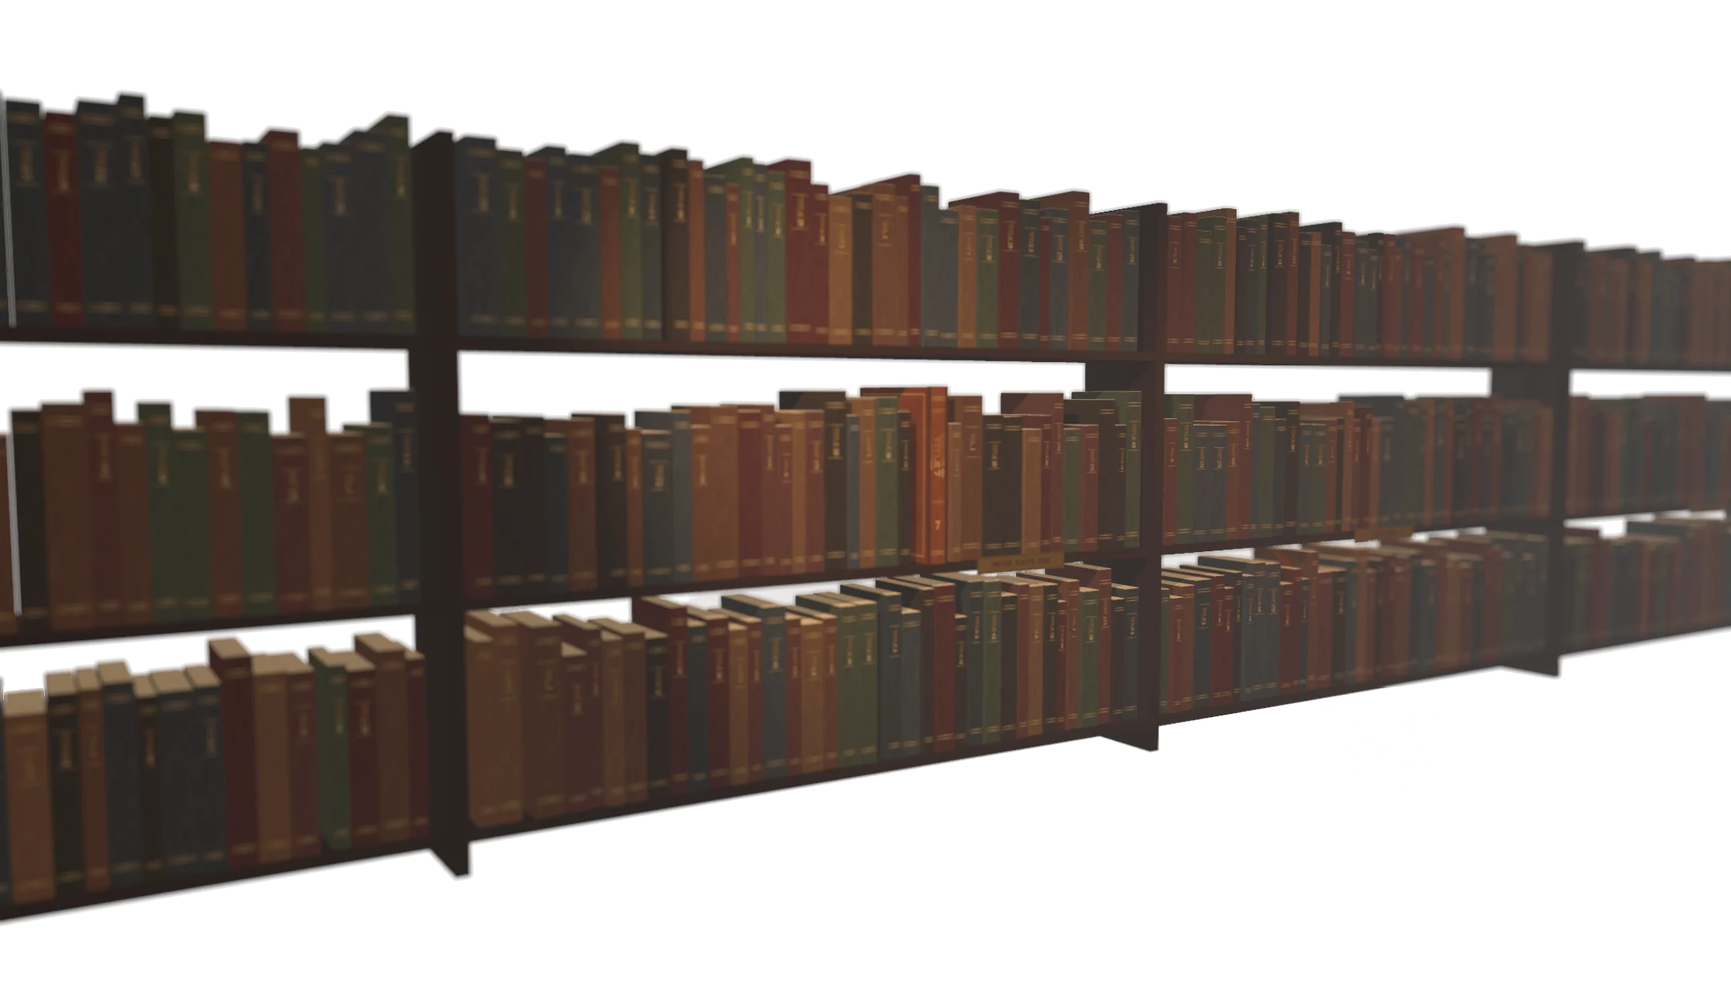
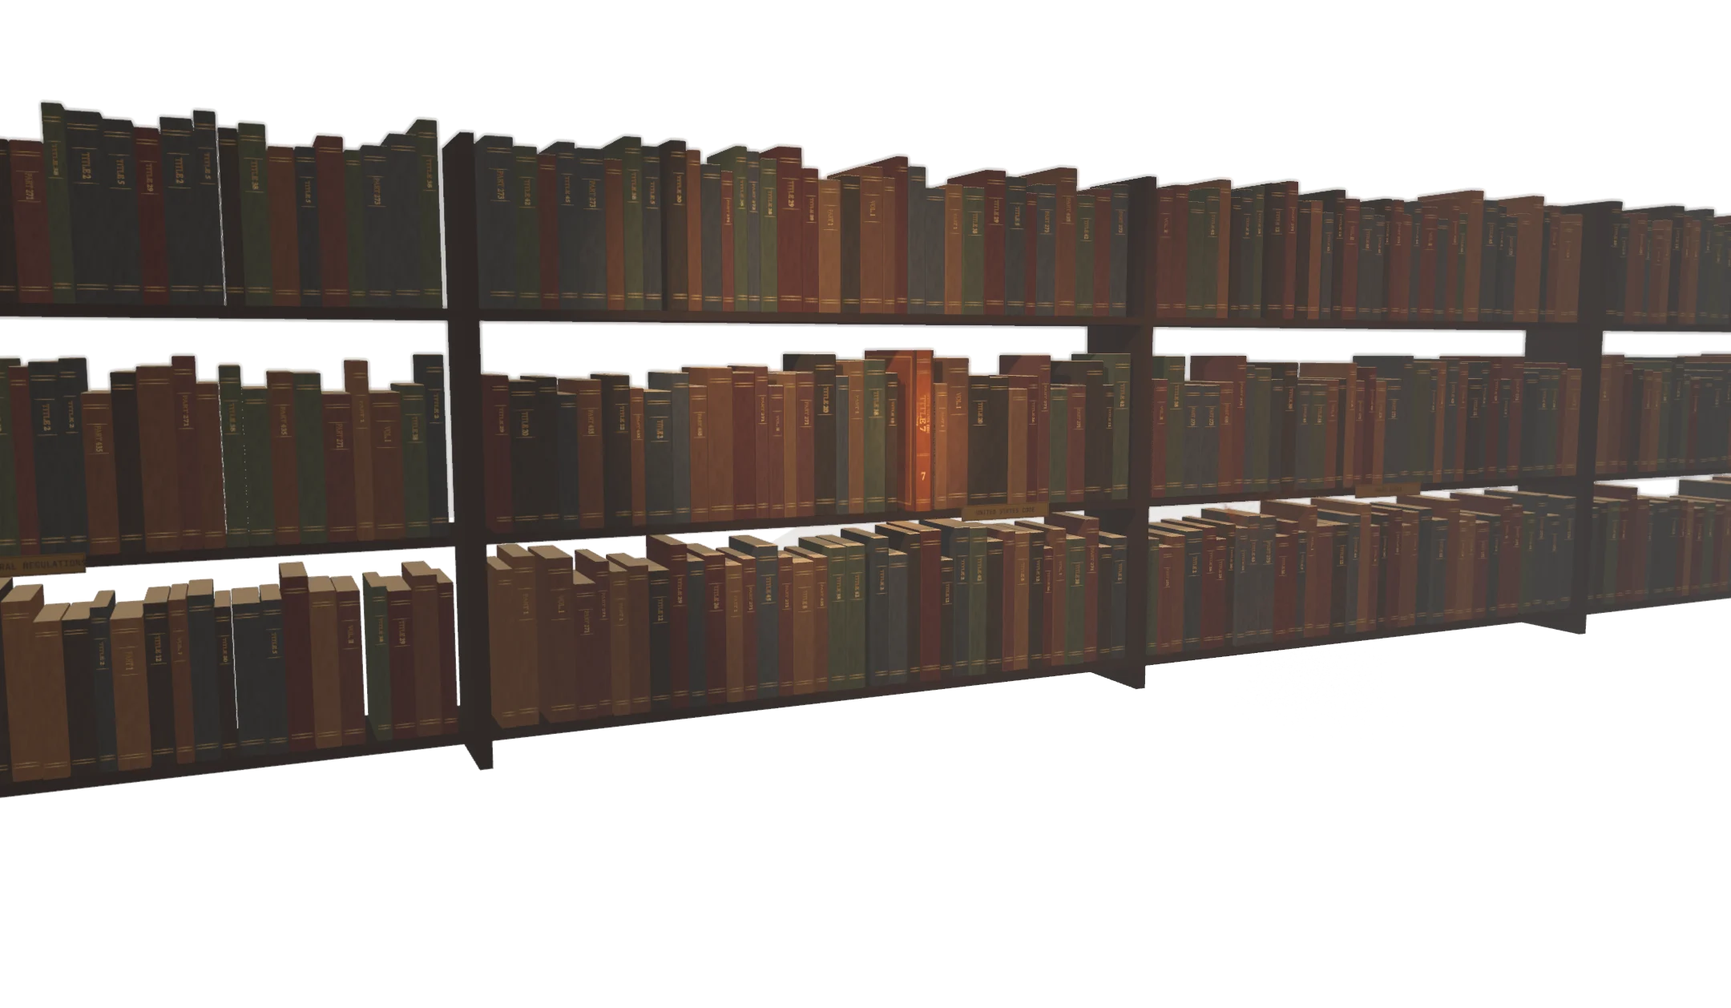
Journey: a crisp first frame and a smooth first visit
- First frame: sharp edge to edge (no depth blur at the start), the
  bookcase framed whole above the caption, Title 7 picked out by a soft
  amber light, a lighter wash behind the caption; new matching stand-in.
- First visit: shader error checks off in production (they blocked on
  the driver), texture uploads in ~8 ms slices, and the story builds
  well ahead (3.5 screens) and not mid-scroll unless it must. A fresh
  load scrolled at once into the story shows no long task.

Changed region(s): [[0.0, 0.093, 1.0, 0.93]]

diff --git a/src/components/landing/journey-lamplight/pacing.ts b/src/components/landing/journey-lamplight/pacing.ts
@@ -6,5 +6,5 @@ export const PACE = {
   total: 14.15,
   target: "190 then 260",
   P: [0, 0.02, 0.04, 0.06, 0.08, 0.1, 0.12, 0.14, 0.16, 0.18, 0.2, 0.22, 0.24, 0.26, 0.28, 0.3, 0.32, 0.34, 0.36, 0.38, 0.4, 0.42, 0.44, 0.46, 0.48, 0.5, 0.52, 0.54, 0.56, 0.58, 0.6, 0.62, 0.64, 0.66, 0.68, 0.7, 0.72, 0.74, 0.76, 0.78, 0.8, 0.82, 0.84, 0.86, 0.88, 0.9, 0.92, 0.94, 0.96, 0.98, 1, 1.02, 1.04, 1.06, 1.08, 1.1, 1.12, 1.14, 1.16, 1.18, 1.2, 1.22, 1.24, 1.26, 1.28, 1.3, 1.32, 1.34, 1.36, 1.38, 1.4, 1.42, 1.44, 1.46, 1.48, 1.5, 1.52, 1.54, 1.56, 1.58, 1.6, 1.62, 1.64, 1.66, 1.68, 1.7, 1.72, 1.74, 1.76, 1.78, 1.8, 1.82, 1.84, 1.86, 1.88, 1.9, 1.92, 1.94, 1.96, 1.98, 2, 2.02, 2.04, 2.06, 2.08, 2.1, 2.12, 2.14, 2.16, 2.18, 2.2, 2.22, 2.24, 2.26, 2.28, 2.3, 2.32, 2.34, 2.36, 2.38, 2.4, 2.42, 2.44, 2.46, 2.48, 2.5, 2.52, 2.54, 2.56, 2.58, 2.6, 2.62, 2.64, 2.66, 2.68, 2.7, 2.72, 2.74, 2.76, 2.78, 2.8, 2.82, 2.84, 2.86, 2.88, 2.9, 2.92, 2.94, 2.96, 2.98, 3, 3.02, 3.04, 3.06, 3.08, 3.1, 3.12, 3.14, 3.16, 3.18, 3.2, 3.22, 3.24, 3.26, 3.28, 3.3, 3.32, 3.34, 3.36, 3.38, 3.4, 3.42, 3.44, 3.46, 3.48, 3.5, 3.52, 3.54, 3.56, 3.58, 3.6, 3.62, 3.64, 3.66, 3.68, 3.7, 3.72, 3.74, 3.76, 3.78, 3.8, 3.82, 3.84, 3.86, 3.88, 3.9, 3.92, 3.94, 3.96, 3.98, 4, 4.02, 4.04, 4.06, 4.08, 4.1, 4.12, 4.14, 4.16, 4.18, 4.2, 4.22, 4.24, 4.26, 4.28, 4.3, 4.32, 4.34, 4.36, 4.38, 4.4, 4.42, 4.44, 4.46, 4.48, 4.5, 4.52, 4.54, 4.56, 4.58, 4.6, 4.62, 4.64, 4.66, 4.68, 4.7, 4.72, 4.74, 4.76, 4.78, 4.8, 4.82, 4.84, 4.86, 4.88, 4.9, 4.92, 4.94, 4.96, 4.98, 5, 5.02, 5.04, 5.06, 5.08, 5.1, 5.12, 5.14, 5.16, 5.18, 5.2, 5.22, 5.24, 5.26, 5.28, 5.3, 5.32, 5.34, 5.36, 5.38, 5.4, 5.42, 5.44, 5.46, 5.48, 5.5, 5.52, 5.54, 5.56, 5.58, 5.6, 5.62, 5.64, 5.66, 5.68, 5.7, 5.72, 5.74, 5.76, 5.78, 5.8, 5.82, 5.84, 5.86, 5.88, 5.9, 5.92, 5.94, 5.96, 5.98, 6, 6.02, 6.04, 6.06, 6.08, 6.1, 6.12, 6.14, 6.16, 6.18, 6.2, 6.22, 6.24, 6.26, 6.28, 6.3, 6.32, 6.34, 6.36, 6.38, 6.4, 6.42, 6.44, 6.46, 6.48, 6.5, 6.52, 6.54, 6.56, 6.58, 6.6, 6.62, 6.64, 6.66, 6.68, 6.7, 6.72, 6.74, 6.76, 6.78, 6.8, 6.82, 6.84, 6.86, 6.88, 6.9, 6.92, 6.94, 6.96, 6.98, 7, 7.02, 7.04, 7.06, 7.08, 7.1, 7.12, 7.14, 7.16, 7.18, 7.2, 7.22, 7.24, 7.26, 7.28, 7.3, 7.32, 7.34, 7.36, 7.38, 7.4, 7.42, 7.44, 7.46, 7.48, 7.5, 7.52, 7.54, 7.56, 7.58, 7.6, 7.62, 7.64, 7.66, 7.68, 7.7, 7.72, 7.74, 7.76, 7.78, 7.8, 7.82, 7.84, 7.86, 7.88, 7.9, 7.92, 7.94, 7.96, 7.98, 8, 8.02, 8.04, 8.06, 8.08, 8.1, 8.12, 8.14, 8.16, 8.18, 8.2, 8.22, 8.24, 8.26, 8.28, 8.3, 8.32, 8.34, 8.36, 8.38, 8.4, 8.42, 8.44, 8.46, 8.48, 8.5, 8.52, 8.54, 8.56, 8.58, 8.6, 8.62, 8.64, 8.66, 8.68, 8.7, 8.72, 8.74, 8.76, 8.78, 8.8, 8.82, 8.84, 8.86, 8.88, 8.9, 8.92, 8.94, 8.96, 8.98, 9, 9.02, 9.04, 9.06, 9.08, 9.1, 9.12, 9.14, 9.16, 9.18, 9.2, 9.22, 9.24, 9.26, 9.28, 9.3, 9.32, 9.34, 9.36, 9.38, 9.4, 9.42, 9.44, 9.46, 9.48, 9.5, 9.52, 9.54, 9.56, 9.58, 9.6, 9.62, 9.64, 9.66, 9.68, 9.7, 9.72, 9.74, 9.76, 9.78, 9.8, 9.82, 9.84, 9.86, 9.88, 9.9, 9.92, 9.94, 9.96, 9.98, 10, 10.02, 10.04, 10.06, 10.08, 10.1, 10.12, 10.14, 10.16, 10.18, 10.2, 10.22, 10.24, 10.26, 10.28, 10.3, 10.32, 10.34, 10.36, 10.38, 10.4, 10.42, 10.44, 10.46, 10.48, 10.5, 10.52, 10.54, 10.56, 10.58, 10.6, 10.62, 10.64, 10.66, 10.68, 10.7, 10.72, 10.74, 10.76, 10.78, 10.8, 10.82, 10.84, 10.86, 10.88, 10.9, 10.92, 10.94, 10.96, 10.98, 11, 11.02, 11.04, 11.06, 11.08, 11.1, 11.12, 11.14, 11.16, 11.18, 11.2, 11.22, 11.24, 11.26, 11.28, 11.3, 11.32, 11.34, 11.36, 11.38, 11.4, 11.42, 11.44, 11.46, 11.48, 11.5, 11.52, 11.54, 11.56, 11.58, 11.6, 11.62, 11.64, 11.66, 11.68, 11.7, 11.72, 11.74, 11.76, 11.78, 11.8, 11.82, 11.84, 11.86, 11.88, 11.9, 11.92, 11.94, 11.96, 11.98, 12, 12.02, 12.04, 12.06, 12.08, 12.1, 12.12, 12.14, 12.16, 12.18, 12.2, 12.22, 12.24, 12.26, 12.28, 12.3, 12.32, 12.34, 12.36, 12.38, 12.4, 12.42, 12.44, 12.46, 12.48, 12.5, 12.52, 12.54, 12.56, 12.58, 12.6, 12.62, 12.64, 12.66, 12.68, 12.7, 12.72, 12.74, 12.76, 12.78, 12.8, 12.82, 12.84, 12.86, 12.88, 12.9, 12.92, 12.94, 12.96, 12.98, 13, 13.02, 13.04, 13.06, 13.08, 13.1, 13.12, 13.14, 13.16, 13.18, 13.2, 13.22, 13.24, 13.26, 13.28, 13.3, 13.32, 13.34, 13.36, 13.38, 13.4, 13.42, 13.44, 13.46, 13.48, 13.5, 13.52, 13.54, 13.56, 13.58, 13.6, 13.62, 13.64, 13.66, 13.68, 13.7, 13.72, 13.74, 13.76, 13.78, 13.8, 13.82, 13.84, 13.86, 13.88, 13.9, 13.92, 13.94, 13.96, 13.98, 14, 14.02, 14.04, 14.06, 14.08, 14.1, 14.12, 14.14, 14.15],
-  S: [0, 0.032, 0.072, 0.1156, 0.1667, 0.2187, 0.2707, 0.3227, 0.3747, 0.4267, 0.4787, 0.5307, 0.5827, 0.6347, 0.6867, 0.7387, 0.7907, 0.8427, 0.8947, 0.9467, 0.9968, 1.0379, 1.0779, 1.1179, 1.1593, 1.2086, 1.2606, 1.3126, 1.3646, 1.4166, 1.4686, 1.5206, 1.5726, 1.6246, 1.6766, 1.7286, 1.7806, 1.8326, 1.8846, 1.9366, 1.9886, 2.0406, 2.0926, 2.1421, 2.1862, 2.2269, 2.2687, 2.3195, 2.3715, 2.4235, 2.4719, 2.5119, 2.5492, 2.5819, 2.6165, 2.6552, 2.6952, 2.7367, 2.7843, 2.8334, 2.8793, 2.9209, 2.9609, 3.0009, 3.0409, 3.0804, 3.1184, 3.1561, 3.1949, 3.2349, 3.2749, 3.3149, 3.3549, 3.3949, 3.4349, 3.4749, 3.5149, 3.5549, 3.5949, 3.6349, 3.6749, 3.7149, 3.7549, 3.7949, 3.8349, 3.8749, 3.9149, 3.9549, 3.9949, 4.0349, 4.0749, 4.1149, 4.1558, 4.1963, 4.2363, 4.2763, 4.3163, 4.3563, 4.3963, 4.4363, 4.4763, 4.5163, 4.5563, 4.5963, 4.6363, 4.6763, 4.7163, 4.7569, 4.8005, 4.8479, 4.8984, 4.9492, 4.9981, 5.0458, 5.0929, 5.1378, 5.1798, 5.2201, 5.2603, 5.3004, 5.3404, 5.3804, 5.4204, 5.4604, 5.5004, 5.5404, 5.5804, 5.6204, 5.6604, 5.7004, 5.7391, 5.7753, 5.8091, 5.8409, 5.8706, 5.8982, 5.9236, 5.9471, 5.9689, 5.9893, 6.0093, 6.0293, 6.0493, 6.0693, 6.0893, 6.1093, 6.1293, 6.1493, 6.1693, 6.1893, 6.2093, 6.2293, 6.2493, 6.2693, 6.2893, 6.3093, 6.3293, 6.3493, 6.3693, 6.3893, 6.4093, 6.4293, 6.4493, 6.4693, 6.4921, 6.5248, 6.5648, 6.6127, 6.6647, 6.7167, 6.7687, 6.8207, 6.8727, 6.9247, 6.9767, 7.0287, 7.0801, 7.1241, 7.1677, 7.2189, 7.2709, 7.3229, 7.3749, 7.4269, 7.4789, 7.5309, 7.5829, 7.6349, 7.6869, 7.7389, 7.7909, 7.8429, 7.8949, 7.9423, 7.9891, 8.0411, 8.0931, 8.1451, 8.1971, 8.2491, 8.3011, 8.3531, 8.4051, 8.4571, 8.5091, 8.5611, 8.6131, 8.6651, 8.7171, 8.7691, 8.8211, 8.8731, 8.9251, 8.9771, 9.0291, 9.0811, 9.1331, 9.1851, 9.2371, 9.2864, 9.327, 9.3559, 9.3759, 9.3959, 9.4159, 9.4359, 9.4559, 9.4759, 9.4959, 9.5159, 9.5359, 9.5559, 9.5759, 9.5959, 9.6159, 9.6359, 9.6559, 9.6759, 9.6959, 9.7159, 9.7359, 9.7559, 9.7759, 9.7959, 9.8159, 9.8359, 9.8559, 9.8759, 9.8959, 9.9159, 9.9359, 9.9559, 9.9759, 9.9959, 10.0159, 10.0359, 10.0559, 10.0759, 10.0959, 10.1159, 10.1359, 10.1559, 10.1759, 10.196, 10.2168, 10.2399, 10.2667, 10.2984, 10.3357, 10.3791, 10.4288, 10.4844, 10.5453, 10.6105, 10.6787, 10.7484, 10.8189, 10.9055, 10.9965, 11.0875, 11.1785, 11.2695, 11.3605, 11.4515, 11.5425, 11.6335, 11.7234, 11.7948, 11.8648, 11.9348, 12.0048, 12.0748, 12.1448, 12.2148, 12.2848, 12.3548, 12.4248, 12.4948, 12.5648, 12.6348, 12.7048, 12.7748, 12.8448, 12.9148, 12.984, 13.0508, 13.114, 13.1724, 13.2251, 13.2717, 13.312, 13.3464, 13.3755, 13.4003, 13.4221, 13.4423, 13.4623, 13.4823, 13.5023, 13.5223, 13.5423, 13.5623, 13.5823, 13.6023, 13.6223, 13.6425, 13.6631, 13.6833, 13.7033, 13.7233, 13.7433, 13.7633, 13.7833, 13.8033, 13.8233, 13.8433, 13.8633, 13.8833, 13.9033, 13.9233, 13.9433, 13.9633, 13.9833, 14.0033, 14.0233, 14.0433, 14.0633, 14.0833, 14.1033, 14.1233, 14.1433, 14.1633, 14.1833, 14.2033, 14.2233, 14.2433, 14.2633, 14.2833, 14.3033, 14.3233, 14.3433, 14.3633, 14.3833, 14.407, 14.433, 14.4572, 14.4775, 14.4975, 14.5175, 14.5375, 14.5575, 14.5775, 14.5975, 14.6175, 14.6375, 14.6575, 14.6775, 14.6975, 14.7175, 14.7375, 14.7575, 14.7775, 14.7975, 14.8175, 14.8375, 14.8575, 14.8775, 14.8975, 14.9175, 14.9375, 14.9575, 14.9775, 14.9975, 15.0175, 15.0383, 15.0615, 15.0883, 15.1199, 15.1572, 15.2006, 15.2503, 15.3059, 15.3668, 15.432, 15.5002, 15.57, 15.64, 15.71, 15.78, 15.85, 15.92, 15.99, 16.06, 16.1352, 16.2262, 16.303, 16.3914, 16.4733, 16.5433, 16.6133, 16.6833, 16.7533, 16.8233, 16.8933, 16.9633, 17.0333, 17.1033, 17.1733, 17.2433, 17.3133, 17.3833, 17.4533, 17.5233, 17.5933, 17.6624, 17.7293, 17.7925, 17.8508, 17.9036, 17.9501, 17.9904, 18.0248, 18.0539, 18.0787, 18.1005, 18.1208, 18.1408, 18.1608, 18.1808, 18.2008, 18.2208, 18.2408, 18.2608, 18.2808, 18.3008, 18.3208, 18.3408, 18.3608, 18.3808, 18.4008, 18.4208, 18.4408, 18.4608, 18.4808, 18.5016, 18.5248, 18.5516, 18.5832, 18.6205, 18.6639, 18.7136, 18.7692, 18.8301, 18.8953, 18.9635, 19.0333, 19.1033, 19.1733, 19.2433, 19.3133, 19.3833, 19.4533, 19.5302, 19.6212, 19.6969, 19.7669, 19.8369, 19.9069, 19.9861, 20.0771, 20.168, 20.248, 20.3189, 20.3889, 20.4589, 20.5289, 20.5992, 20.6696, 20.7423, 20.8166, 20.8909, 20.9652, 21.0383, 21.1136, 21.1854, 21.2548, 21.3229, 21.3878, 21.4497, 21.5077, 21.5607, 21.6126, 21.6642, 21.7156, 21.7667, 21.817, 21.8664, 21.915, 21.9632, 22.0111, 22.0581, 22.1035, 22.1472, 22.1891, 22.2293, 22.2693, 22.3093, 22.3493, 22.3893, 22.4285, 22.4647, 22.4987, 22.5315, 22.5636, 22.5953, 22.6268, 22.6584, 22.6907, 22.728, 22.7714, 22.8211, 22.8767, 22.9376, 23.0028, 23.071, 23.1407, 23.2107, 23.2807, 23.3507, 23.4216, 23.5094, 23.6004, 23.6914, 23.7697, 23.8397, 23.9097, 23.9972, 24.0882, 24.1756, 24.2602, 24.3445, 24.4303, 24.5188, 24.6098, 24.7008, 24.7918, 24.8828, 24.9738, 25.0648, 25.1558, 25.2468, 25.3378, 25.4288, 25.5198, 25.6097, 25.6966, 25.7787, 25.8546, 25.9231, 25.9837, 26.0369, 26.0889, 26.1409, 26.1925, 26.2418, 26.289, 26.3348, 26.3788, 26.4206, 26.4608, 26.5008, 26.5408, 26.5795, 26.6122, 26.6387, 26.66, 26.68, 26.7, 26.72, 26.74, 26.76, 26.78, 26.8, 26.82, 26.8409, 26.864, 26.8908, 26.9224, 26.9597, 27.0032, 27.0528, 27.1085, 27.1694, 27.2345, 27.3027, 27.3725, 27.4425, 27.5125, 27.5825, 27.6618, 27.7528, 27.8438, 27.9348, 28.0258, 28.1168, 28.2078, 28.2988, 28.3891, 28.4634, 28.5334, 28.6034, 28.6734, 28.7434, 28.8134, 28.8834, 28.9534, 29.0234, 29.0934, 29.1634, 29.2334, 29.3034, 29.3734, 29.4434, 29.5134, 29.5825, 29.6494, 29.7126, 29.771, 29.8237, 29.8702, 29.9106, 29.9449, 29.974, 29.9988, 30.0206, 30.0409, 30.0609, 30.0809, 30.1009, 30.1209, 30.1409, 30.1609, 30.1809, 30.2009, 30.2209, 30.2409, 30.2609, 30.2809, 30.3009, 30.3209, 30.3409, 30.3609, 30.3809, 30.4009, 30.4209, 30.4409, 30.4609, 30.4809, 30.5009, 30.5209, 30.5409, 30.5609, 30.5809, 30.6009, 30.6209, 30.6409, 30.6609, 30.6809, 30.7009, 30.7209, 30.7409, 30.7609, 30.7809, 30.8009, 30.8209, 30.8409, 30.8609, 30.8809, 30.9009, 30.9209, 30.9409, 30.9609, 30.9809, 31.0009, 31.0209, 31.0409, 31.0609, 31.0809, 31.0909],
+  S: [0, 0.0318, 0.0718, 0.1179, 0.1697, 0.2217, 0.2737, 0.3257, 0.3777, 0.4297, 0.4817, 0.5337, 0.5857, 0.6377, 0.6897, 0.7417, 0.7937, 0.8457, 0.8977, 0.9497, 1.0017, 1.0464, 1.0864, 1.1298, 1.181, 1.233, 1.285, 1.337, 1.389, 1.441, 1.493, 1.545, 1.597, 1.649, 1.701, 1.753, 1.805, 1.857, 1.909, 1.961, 2.013, 2.065, 2.117, 2.1653, 2.2072, 2.2472, 2.2885, 2.339, 2.391, 2.443, 2.4914, 2.5314, 2.5673, 2.5985, 2.6319, 2.6702, 2.7102, 2.751, 2.7972, 2.8463, 2.8938, 2.9374, 2.9777, 3.0177, 3.0577, 3.0974, 3.1351, 3.1723, 3.2108, 3.2508, 3.2908, 3.3308, 3.3708, 3.4108, 3.4508, 3.4908, 3.5308, 3.5708, 3.6108, 3.6508, 3.6908, 3.7308, 3.7708, 3.8108, 3.8508, 3.8908, 3.9308, 3.9708, 4.0108, 4.0508, 4.0908, 4.1308, 4.1719, 4.2141, 4.2542, 4.2942, 4.3342, 4.3742, 4.4142, 4.4542, 4.4942, 4.5342, 4.5742, 4.6142, 4.6546, 4.6957, 4.7372, 4.7793, 4.8226, 4.8683, 4.9164, 4.9653, 5.0134, 5.0612, 5.1086, 5.1543, 5.1975, 5.239, 5.2797, 5.3198, 5.3598, 5.3998, 5.4398, 5.4798, 5.5198, 5.5598, 5.5998, 5.6398, 5.6798, 5.7198, 5.7583, 5.7942, 5.8279, 5.8593, 5.8887, 5.9159, 5.941, 5.9643, 5.9861, 6.0066, 6.0266, 6.0466, 6.0666, 6.0866, 6.1066, 6.1266, 6.1466, 6.1666, 6.1866, 6.2066, 6.2266, 6.2466, 6.2666, 6.2866, 6.3066, 6.3266, 6.3466, 6.3666, 6.3866, 6.4066, 6.4266, 6.4466, 6.4666, 6.4866, 6.5101, 6.5432, 6.5833, 6.6312, 6.6832, 6.7352, 6.7872, 6.8392, 6.8912, 6.9432, 6.9952, 7.0472, 7.0986, 7.1431, 7.1867, 7.2375, 7.2895, 7.3415, 7.3935, 7.4455, 7.4975, 7.5495, 7.6015, 7.6535, 7.7055, 7.7575, 7.8095, 7.8615, 7.9135, 7.96, 8.0069, 8.0589, 8.1109, 8.1629, 8.2149, 8.2669, 8.3189, 8.3709, 8.4229, 8.4749, 8.5269, 8.5789, 8.6309, 8.6829, 8.7349, 8.7869, 8.8389, 8.8909, 8.9429, 8.9949, 9.0469, 9.0989, 9.1509, 9.2029, 9.2549, 9.3048, 9.3448, 9.3735, 9.3935, 9.4135, 9.4335, 9.4535, 9.4735, 9.4935, 9.5135, 9.5335, 9.5535, 9.5735, 9.5935, 9.6135, 9.6335, 9.6535, 9.6735, 9.6935, 9.7135, 9.7335, 9.7535, 9.7735, 9.7935, 9.8135, 9.8335, 9.8535, 9.8735, 9.8935, 9.9135, 9.9335, 9.9535, 9.9735, 9.9935, 10.0135, 10.0335, 10.0535, 10.0735, 10.0935, 10.1135, 10.1335, 10.1535, 10.1735, 10.1935, 10.2136, 10.2344, 10.2575, 10.2843, 10.316, 10.3533, 10.3967, 10.4464, 10.502, 10.5629, 10.6281, 10.6963, 10.766, 10.836, 10.9223, 11.0133, 11.1043, 11.1953, 11.2863, 11.3773, 11.4683, 11.5593, 11.6503, 11.7413, 11.8118, 11.8818, 11.9518, 12.0218, 12.0918, 12.1618, 12.2318, 12.3018, 12.3718, 12.4418, 12.5118, 12.5818, 12.6518, 12.7218, 12.7918, 12.8618, 12.9318, 13.001, 13.0678, 13.131, 13.1894, 13.2421, 13.2887, 13.329, 13.3634, 13.3925, 13.4173, 13.4391, 13.4593, 13.4793, 13.4993, 13.5193, 13.5393, 13.5593, 13.5793, 13.5993, 13.6193, 13.6393, 13.6596, 13.6803, 13.7004, 13.7204, 13.7404, 13.7604, 13.7804, 13.8004, 13.8204, 13.8404, 13.8604, 13.8804, 13.9004, 13.9204, 13.9404, 13.9604, 13.9804, 14.0004, 14.0204, 14.0404, 14.0604, 14.0804, 14.1004, 14.1204, 14.1404, 14.1604, 14.1804, 14.2004, 14.2204, 14.2404, 14.2604, 14.2804, 14.3004, 14.3204, 14.3404, 14.3604, 14.3804, 14.4004, 14.4241, 14.4501, 14.4743, 14.4946, 14.5146, 14.5346, 14.5546, 14.5746, 14.5946, 14.6146, 14.6346, 14.6546, 14.6746, 14.6946, 14.7146, 14.7346, 14.7546, 14.7746, 14.7946, 14.8146, 14.8346, 14.8546, 14.8746, 14.8946, 14.9146, 14.9346, 14.9546, 14.9746, 14.9946, 15.0146, 15.0347, 15.0555, 15.0786, 15.1055, 15.1371, 15.1744, 15.2178, 15.2675, 15.3231, 15.384, 15.4492, 15.5174, 15.5871, 15.6571, 15.7271, 15.7971, 15.8671, 15.9371, 16.0071, 16.0771, 16.1541, 16.2451, 16.3195, 16.4008, 16.4913, 16.5641, 16.6341, 16.7041, 16.7741, 16.8441, 16.9141, 16.9841, 17.0541, 17.1241, 17.1941, 17.2641, 17.3341, 17.4041, 17.4741, 17.5441, 17.6141, 17.6833, 17.7502, 17.8133, 17.8717, 17.9244, 17.971, 18.0113, 18.0457, 18.0748, 18.0996, 18.1214, 18.1416, 18.1616, 18.1816, 18.2016, 18.2216, 18.2416, 18.2616, 18.2816, 18.3016, 18.3216, 18.3416, 18.3616, 18.3816, 18.4016, 18.4216, 18.4416, 18.4616, 18.4816, 18.5017, 18.5225, 18.5456, 18.5725, 18.6041, 18.6414, 18.6848, 18.7345, 18.7901, 18.851, 18.9162, 18.9844, 19.0541, 19.1241, 19.1941, 19.2641, 19.3341, 19.4041, 19.4741, 19.5503, 19.6413, 19.7181, 19.7881, 19.8581, 19.9281, 20.0074, 20.0984, 20.1892, 20.2704, 20.344, 20.4145, 20.4845, 20.5545, 20.6245, 20.6946, 20.7666, 20.8399, 20.9142, 20.9887, 21.0616, 21.1356, 21.2074, 21.2767, 21.3437, 21.4081, 21.47, 21.5284, 21.5816, 21.6336, 21.6855, 21.7372, 21.7882, 21.8385, 21.888, 21.9364, 21.9841, 22.0316, 22.0788, 22.1245, 22.1686, 22.2112, 22.252, 22.292, 22.332, 22.372, 22.412, 22.4514, 22.4877, 22.5219, 22.5546, 22.5868, 22.6186, 22.6503, 22.682, 22.7144, 22.7516, 22.7951, 22.8448, 22.9004, 22.9613, 23.0265, 23.0947, 23.1644, 23.2344, 23.3044, 23.3744, 23.4462, 23.5346, 23.6256, 23.7166, 23.7948, 23.8648, 23.9348, 24.0225, 24.1135, 24.2013, 24.2842, 24.3686, 24.4558, 24.5427, 24.6323, 24.7233, 24.8143, 24.9053, 24.9963, 25.0873, 25.1783, 25.2693, 25.3603, 25.4513, 25.5423, 25.6323, 25.7191, 25.8013, 25.8772, 25.9457, 26.0063, 26.0595, 26.1115, 26.1635, 26.2149, 26.2644, 26.3117, 26.3567, 26.3997, 26.4414, 26.4816, 26.5216, 26.5616, 26.6003, 26.633, 26.6594, 26.6808, 26.7008, 26.7208, 26.7408, 26.7608, 26.7808, 26.8008, 26.8208, 26.8408, 26.8616, 26.8848, 26.9116, 26.9432, 26.9805, 27.0239, 27.0736, 27.1292, 27.1901, 27.2553, 27.3235, 27.3933, 27.4633, 27.5333, 27.6033, 27.6825, 27.7735, 27.8645, 27.9555, 28.0465, 28.1375, 28.2285, 28.3195, 28.4102, 28.4866, 28.5566, 28.6266, 28.6966, 28.7666, 28.8366, 28.9066, 28.9766, 29.0466, 29.1166, 29.1866, 29.2566, 29.3266, 29.3966, 29.4666, 29.5366, 29.6057, 29.6726, 29.7358, 29.7941, 29.8469, 29.8934, 29.9337, 29.9681, 29.9972, 30.022, 30.0438, 30.0641, 30.0841, 30.1041, 30.1241, 30.1441, 30.1641, 30.1841, 30.2041, 30.2241, 30.2441, 30.2641, 30.2841, 30.3041, 30.3241, 30.3441, 30.3641, 30.3841, 30.4041, 30.4241, 30.4441, 30.4641, 30.4841, 30.5041, 30.5241, 30.5441, 30.5641, 30.5841, 30.6041, 30.6241, 30.6441, 30.6641, 30.6841, 30.7041, 30.7241, 30.7441, 30.7641, 30.7841, 30.8041, 30.8241, 30.8441, 30.8641, 30.8841, 30.9041, 30.9241, 30.9441, 30.9641, 30.9841, 31.0041, 31.0241, 31.0441, 31.0641, 31.0841, 31.1041, 31.1141],
 };

diff --git a/src/components/landing/journey-lamplight/journey-lamplight.tsx b/src/components/landing/journey-lamplight/journey-lamplight.tsx
@@ -222,17 +222,29 @@ function ScrollJourney() {
     // (or at once if the reader is already near), so the first approach to
     // the story does not pay for building it
     let started = false;
+    // building the scenes is one long task (~100 ms): run it while the
+    // reader is not scrolling, unless the story is already close
+    let lastScroll = 0;
+    const onScroll = () => (lastScroll = performance.now());
+    window.addEventListener("scroll", onScroll, { passive: true });
+    const near = () => track.getBoundingClientRect().top < window.innerHeight * 3.5;
     const start = () => {
       if (started || director || dead) return;
+      if (!near() && performance.now() - lastScroll < 220) {
+        window.setTimeout(start, 120);
+        return;
+      }
       started = true;
       io.disconnect();
+      window.removeEventListener("scroll", onScroll);
       load();
     };
     const io = new IntersectionObserver(
       (entries) => {
         if (entries.some((en) => en.isIntersecting)) start();
       },
-      { rootMargin: "150% 0px" },
+      // start well ahead of the story, never at its entrance
+      { rootMargin: "350% 0px" },
     );
     const idle = (cb: () => void) => {
       if (typeof window.requestIdleCallback === "function") window.requestIdleCallback(cb, { timeout: 4000 });
@@ -295,6 +307,7 @@ function ScrollJourney() {
     return () => {
       dead = true;
       window.clearTimeout(early);
+      window.removeEventListener("scroll", onScroll);
       io.disconnect();
       window.removeEventListener("resize", onResize);
       st.kill();

diff --git a/src/components/landing/style-frames/lamplight0.ts b/src/components/landing/style-frames/lamplight0.ts
@@ -353,16 +353,26 @@ export function lamplightShelf(ctx: BeatCtx): BeatSpec {
   lamp.shadow.blurSamples = 16;
   lamp.shadow.bias = -0.0004;
   scene.add(lamp, lamp.target);
+  // on paper, a soft amber light picks out Title 7 among the volumes
+  if (THEME.paper) {
+    const pick = new THREE.SpotLight("#ffb05a", 26, 6, 0.16, 0.85, 2);
+    pick.position.set(heroAt.x - 0.3, heroAt.y + 1.4, heroAt.z + 2.2);
+    pick.target.position.copy(heroAt);
+    scene.add(pick, pick.target);
+  }
   const fill = new THREE.PointLight("#ff9a50", 3.5, 12, 2);
   fill.position.set(3.5, 2.2, 2.2);
   scene.add(fill);
   scene.add(new THREE.AmbientLight("#ffe2c0", THEME.paper ? 0.9 : 0.03));
   // the motion: the camera drifts in from across the room while the
   // volume comes out of its slot; dust drifts in the lamp's beam
-  const camFrom = new THREE.Vector3(-3.9, 1.95, 6.4);
+  // far enough back that the whole bookcase sits above the caption
+  const camFrom = new THREE.Vector3(-3.4, 2.0, 7.6);
   const camTo = camera.position.clone();
-  const aimFrom = new THREE.Vector3(0.2, 1.35, -0.2);
-  const aimTo = new THREE.Vector3(0.75, 1.2, -0.1);
+  // the camera looks a little low, so the shelves sit high in the frame
+  // and the caption has clear page beneath them
+  const aimFrom = new THREE.Vector3(0.2, 1.05, -0.2);
+  const aimTo = new THREE.Vector3(0.75, 0.9, -0.1);
   const update = (t: number) => {
     const c = ease(t);
     camera.position.lerpVectors(camFrom, camTo, c);

diff --git a/src/components/landing/style-frames/lamplight01.ts b/src/components/landing/style-frames/lamplight01.ts
@@ -462,7 +462,9 @@ export function lamplightShelfToBook(ctx: BeatCtx): BeatSpec {
     // focus a little in front of the book's middle, so its near edge and
     // the table under it are sharp
     if (u < R0) look.dof!.focus = camera.position.distanceTo(bookNow) - 0.5 * ease(seg(u, 0.7, 1.0));
-    look.dof!.aperture = u < 0.45 ? 0.0008 : u < R0 ? lerp(0.0008, 0.0003, seg(u, 0.6, 1.0)) : lerp(0.0003, 0.0012, seg(u, 2.2, 3.0));
+    // the first frame is sharp from edge to edge; a little depth comes in
+    // as the volume leaves the shelf
+    look.dof!.aperture = u < 0.45 ? lerp(THEME.paper ? 0.00008 : 0.0008, 0.0008, seg(u, 0.2, 0.45)) : u < R0 ? lerp(0.0008, 0.0003, seg(u, 0.6, 1.0)) : lerp(0.0003, 0.0012, seg(u, 2.2, 3.0));
 
     // ── the light: the library's lamp falls away as the table's comes up
     libLamp.intensity = libLampOn * lerp(1, 0.28, seg(u, 0.5, 1.1));

diff --git a/src/components/landing/style-frames/kit.ts b/src/components/landing/style-frames/kit.ts
@@ -806,6 +806,10 @@ export function makeRenderer(canvas?: HTMLCanvasElement) {
   // transparent in the last pass), so the page shows behind the scenes
   const renderer = new THREE.WebGLRenderer({ antialias: false, alpha: true, canvas, preserveDrawingBuffer: true, powerPreference: "high-performance" });
   renderer.outputColorSpace = THREE.SRGBColorSpace;
+  // in production, never wait on a shader to read back its error log: that
+  // check blocks until the driver finishes compiling, which stalls a frame
+  // (shaders then compile in parallel, out of the way)
+  renderer.debug.checkShaderErrors = process.env.NODE_ENV !== "production";
   renderer.shadowMap.enabled = true;
   renderer.shadowMap.type = THREE.VSMShadowMap;
   return renderer;

diff --git a/src/components/landing/journey-lamplight/director.ts b/src/components/landing/journey-lamplight/director.ts
@@ -199,7 +199,15 @@ export async function createDirector(opts: {
         });
       }),
     );
-    seen.forEach((t) => renderer.initTexture(t));
+    // upload in slices of ~8 ms, letting frames through between them
+    let slice = performance.now();
+    for (const t of seen) {
+      renderer.initTexture(t);
+      if (performance.now() - slice > 8) {
+        await new Promise((r) => setTimeout(r, 0));
+        slice = performance.now();
+      }
+    }
     // compile what is hidden too: a scene that shows a part only later
     // would otherwise compile its shaders mid-scroll, on first sight
     const hidden: THREE.Object3D[] = [];

diff --git a/src/components/landing/journey-lamplight/journey-lamplight.css b/src/components/landing/journey-lamplight/journey-lamplight.css
@@ -382,7 +382,7 @@
   position: absolute;
   inset: -48px -80px -40px -64px;
   z-index: -1;
-  background: radial-gradient(ellipse at 40% 55%, rgba(250, 249, 246, 0.94) 0%, rgba(250, 249, 246, 0.8) 38%, rgba(250, 249, 246, 0) 72%);
+  background: radial-gradient(ellipse at 40% 55%, rgba(250, 249, 246, 0.7) 0%, rgba(250, 249, 246, 0.45) 40%, rgba(250, 249, 246, 0) 70%);
   pointer-events: none;
 }
 /* the end cards, on paper */
